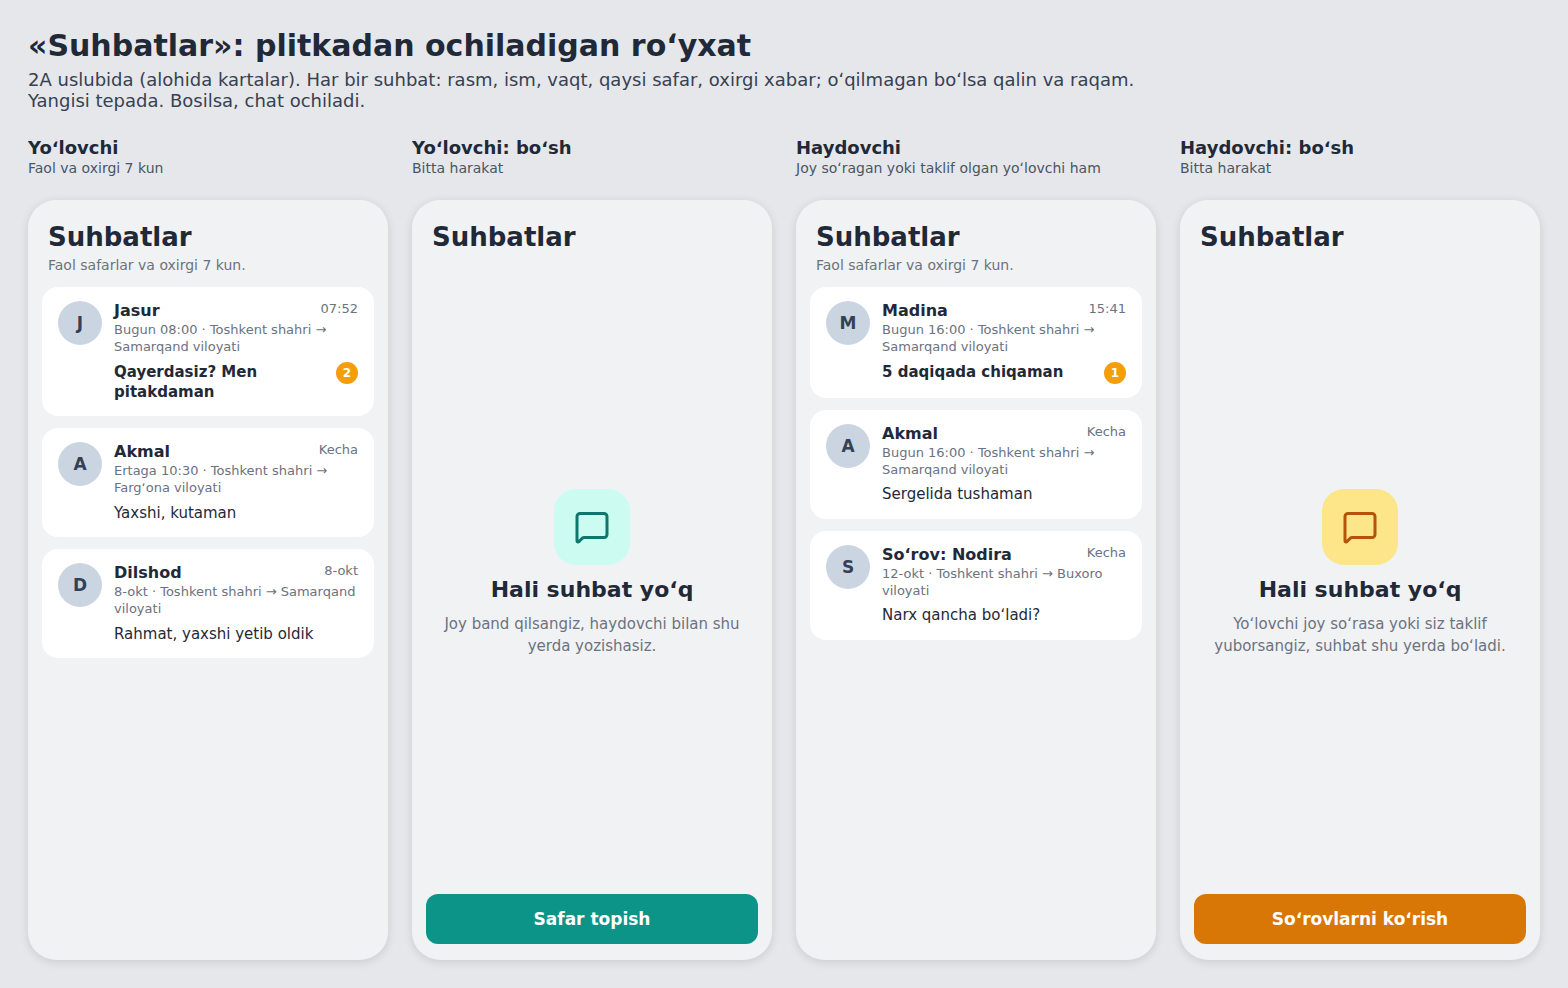
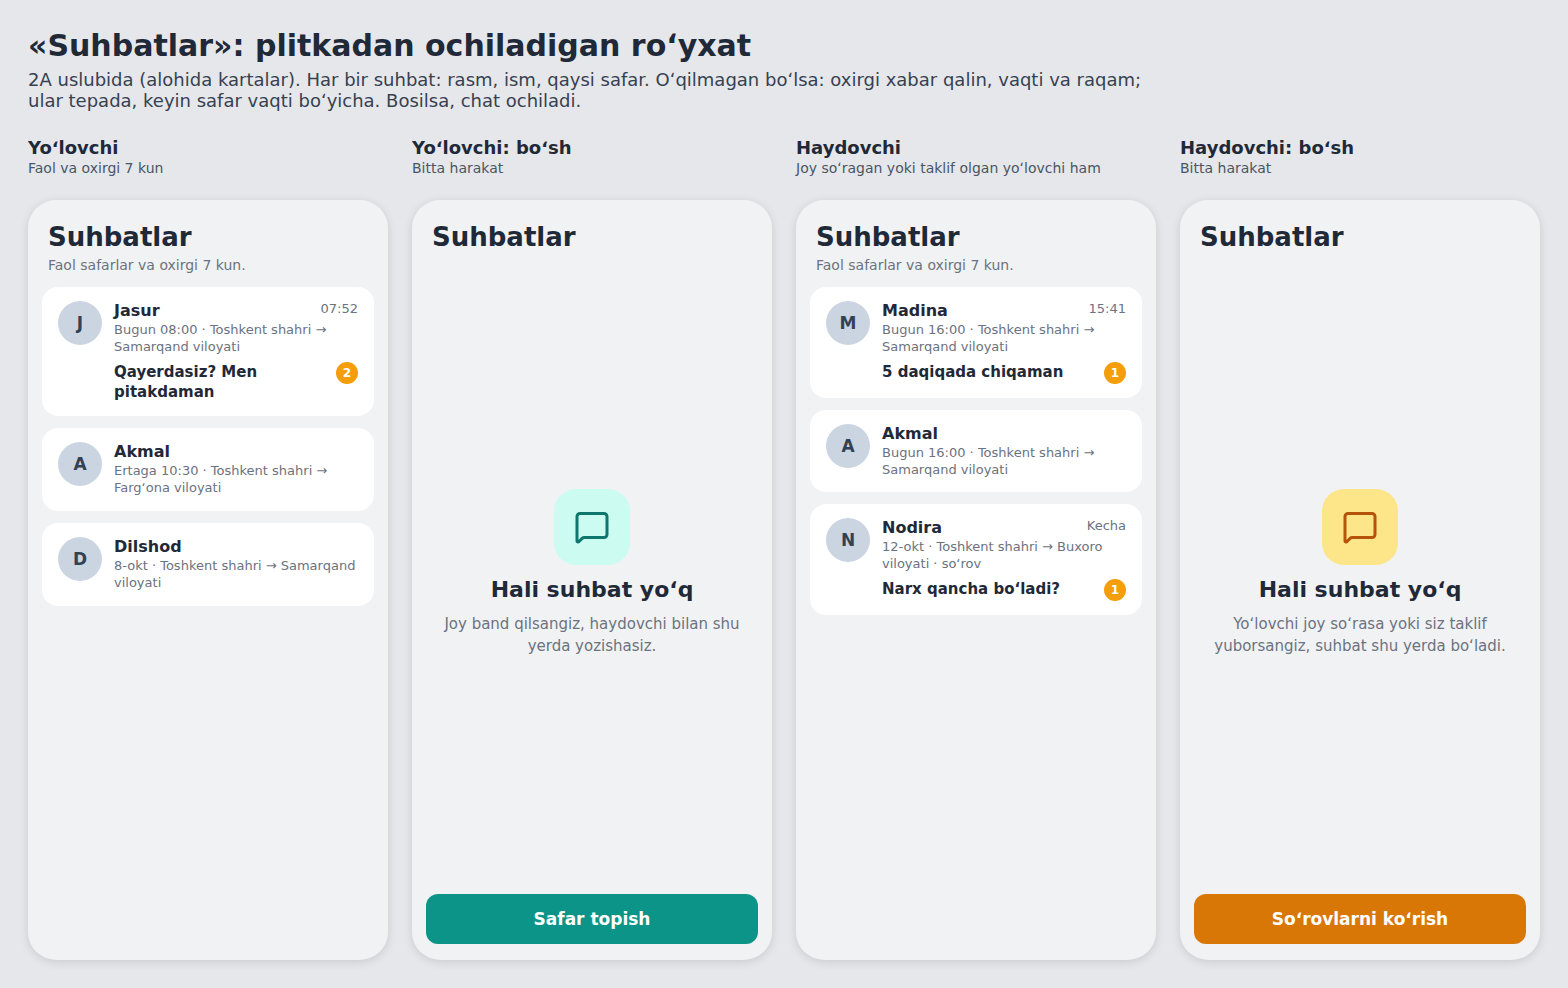
G76: the chats mockup shows the last words only of unread chats (no extra reads of every chat)
Claude-Session: https://claude.ai/code/session_017FSsNw3bjZgBbKY1ueaesh

diff --git a/docs/goals/g76/src/5-chats.html b/docs/goals/g76/src/5-chats.html
@@ -56,4 +56,4 @@ h1{font-size:30px;margin-bottom:6px}
 </style><style>.ch{display:flex;gap:12px;padding:14px 16px;align-items:flex-start}.ch .f{width:44px;height:44px;border-radius:50%;background:#CBD5E1;color:#334155;font-weight:800;display:flex;align-items:center;justify-content:center;flex:none;font-size:17px}
 .ch .w{flex:1;min-width:0}.ch .top{display:flex;justify-content:space-between;gap:8px}.ch b{font-size:16px}.ch time{font-size:13px;color:var(--muted);white-space:nowrap}
 .ch .t{font-size:13px;color:var(--muted);margin-top:2px;line-height:1.3}.ch .m{font-size:15px;margin-top:6px;display:flex;justify-content:space-between;gap:8px;line-height:1.35}
-.ch .m.new{font-weight:700}.ch .n{min-width:22px;height:22px;border-radius:11px;background:#F59E0B;color:#fff;font-size:12px;font-weight:800;display:flex;align-items:center;justify-content:center;flex:none;padding:0 6px}</style></head><body><h1>«Suhbatlar»: plitkadan ochiladigan roʻyxat</h1><div class="sub">2A uslubida (alohida kartalar). Har bir suhbat: rasm, ism, vaqt, qaysi safar, oxirgi xabar; oʻqilmagan boʻlsa qalin va raqam. Yangisi tepada. Bosilsa, chat ochiladi.</div><div class="row"><div class="col"><div class="lab">Yoʻlovchi<small>Faol va oxirgi 7 kun</small></div><div class="ph "><div class="ttl">Suhbatlar<small>Faol safarlar va oxirgi 7 kun.</small></div><div class="card"><div class="ch"><div class="f">J</div><div class="w"><div class="top"><b>Jasur</b><time>07:52</time></div><div class="t">Bugun 08:00 · Toshkent shahri → Samarqand viloyati</div><div class="m new"><span>Qayerdasiz? Men pitakdaman</span><span class="n">2</span></div></div></div></div><div class="card"><div class="ch"><div class="f">A</div><div class="w"><div class="top"><b>Akmal</b><time>Kecha</time></div><div class="t">Ertaga 10:30 · Toshkent shahri → Fargʻona viloyati</div><div class="m "><span>Yaxshi, kutaman</span></div></div></div></div><div class="card"><div class="ch"><div class="f">D</div><div class="w"><div class="top"><b>Dilshod</b><time>8-okt</time></div><div class="t">8-okt · Toshkent shahri → Samarqand viloyati</div><div class="m "><span>Rahmat, yaxshi yetib oldik</span></div></div></div></div></div></div><div class="col"><div class="lab">Yoʻlovchi: boʻsh<small>Bitta harakat</small></div><div class="ph "><div class="ttl">Suhbatlar</div><div class="center"><div class="tile big"><svg width="36" height="36" viewBox="0 0 24 24" fill="none" stroke="currentColor" stroke-width="2" stroke-linecap="round" stroke-linejoin="round"><path d="M22 17a2 2 0 0 1-2 2H6.8a2 2 0 0 0-1.4.6l-2.2 2.2A.7.7 0 0 1 2 21.3V5a2 2 0 0 1 2-2h16a2 2 0 0 1 2 2z"/></svg></div><h2>Hali suhbat yoʻq</h2><p>Joy band qilsangiz, haydovchi bilan shu yerda yozishasiz.</p></div><div class="foot"><div class="btn">Safar topish</div></div></div></div><div class="col"><div class="lab">Haydovchi<small>Joy soʻragan yoki taklif olgan yoʻlovchi ham</small></div><div class="ph drv"><div class="ttl">Suhbatlar<small>Faol safarlar va oxirgi 7 kun.</small></div><div class="card"><div class="ch"><div class="f">M</div><div class="w"><div class="top"><b>Madina</b><time>15:41</time></div><div class="t">Bugun 16:00 · Toshkent shahri → Samarqand viloyati</div><div class="m new"><span>5 daqiqada chiqaman</span><span class="n">1</span></div></div></div></div><div class="card"><div class="ch"><div class="f">A</div><div class="w"><div class="top"><b>Akmal</b><time>Kecha</time></div><div class="t">Bugun 16:00 · Toshkent shahri → Samarqand viloyati</div><div class="m "><span>Sergelida tushaman</span></div></div></div></div><div class="card"><div class="ch"><div class="f">S</div><div class="w"><div class="top"><b>Soʻrov: Nodira</b><time>Kecha</time></div><div class="t">12-okt · Toshkent shahri → Buxoro viloyati</div><div class="m "><span>Narx qancha boʻladi?</span></div></div></div></div></div></div><div class="col"><div class="lab">Haydovchi: boʻsh<small>Bitta harakat</small></div><div class="ph drv"><div class="ttl">Suhbatlar</div><div class="center"><div class="tile big"><svg width="36" height="36" viewBox="0 0 24 24" fill="none" stroke="currentColor" stroke-width="2" stroke-linecap="round" stroke-linejoin="round"><path d="M22 17a2 2 0 0 1-2 2H6.8a2 2 0 0 0-1.4.6l-2.2 2.2A.7.7 0 0 1 2 21.3V5a2 2 0 0 1 2-2h16a2 2 0 0 1 2 2z"/></svg></div><h2>Hali suhbat yoʻq</h2><p>Yoʻlovchi joy soʻrasa yoki siz taklif yuborsangiz, suhbat shu yerda boʻladi.</p></div><div class="foot"><div class="btn">Soʻrovlarni koʻrish</div></div></div></div></div></body></html>
+.ch .m.new{font-weight:700}.ch .n{min-width:22px;height:22px;border-radius:11px;background:#F59E0B;color:#fff;font-size:12px;font-weight:800;display:flex;align-items:center;justify-content:center;flex:none;padding:0 6px}</style></head><body><h1>«Suhbatlar»: plitkadan ochiladigan roʻyxat</h1><div class="sub">2A uslubida (alohida kartalar). Har bir suhbat: rasm, ism, qaysi safar. Oʻqilmagan boʻlsa: oxirgi xabar qalin, vaqti va raqam; ular tepada, keyin safar vaqti boʻyicha. Bosilsa, chat ochiladi.</div><div class="row"><div class="col"><div class="lab">Yoʻlovchi<small>Faol va oxirgi 7 kun</small></div><div class="ph "><div class="ttl">Suhbatlar<small>Faol safarlar va oxirgi 7 kun.</small></div><div class="card"><div class="ch"><div class="f">J</div><div class="w"><div class="top"><b>Jasur</b><time>07:52</time></div><div class="t">Bugun 08:00 · Toshkent shahri → Samarqand viloyati</div><div class="m new"><span>Qayerdasiz? Men pitakdaman</span><span class="n">2</span></div></div></div></div><div class="card"><div class="ch"><div class="f">A</div><div class="w"><div class="top"><b>Akmal</b><time></time></div><div class="t">Ertaga 10:30 · Toshkent shahri → Fargʻona viloyati</div></div></div></div><div class="card"><div class="ch"><div class="f">D</div><div class="w"><div class="top"><b>Dilshod</b><time></time></div><div class="t">8-okt · Toshkent shahri → Samarqand viloyati</div></div></div></div></div></div><div class="col"><div class="lab">Yoʻlovchi: boʻsh<small>Bitta harakat</small></div><div class="ph "><div class="ttl">Suhbatlar</div><div class="center"><div class="tile big"><svg width="36" height="36" viewBox="0 0 24 24" fill="none" stroke="currentColor" stroke-width="2" stroke-linecap="round" stroke-linejoin="round"><path d="M22 17a2 2 0 0 1-2 2H6.8a2 2 0 0 0-1.4.6l-2.2 2.2A.7.7 0 0 1 2 21.3V5a2 2 0 0 1 2-2h16a2 2 0 0 1 2 2z"/></svg></div><h2>Hali suhbat yoʻq</h2><p>Joy band qilsangiz, haydovchi bilan shu yerda yozishasiz.</p></div><div class="foot"><div class="btn">Safar topish</div></div></div></div><div class="col"><div class="lab">Haydovchi<small>Joy soʻragan yoki taklif olgan yoʻlovchi ham</small></div><div class="ph drv"><div class="ttl">Suhbatlar<small>Faol safarlar va oxirgi 7 kun.</small></div><div class="card"><div class="ch"><div class="f">M</div><div class="w"><div class="top"><b>Madina</b><time>15:41</time></div><div class="t">Bugun 16:00 · Toshkent shahri → Samarqand viloyati</div><div class="m new"><span>5 daqiqada chiqaman</span><span class="n">1</span></div></div></div></div><div class="card"><div class="ch"><div class="f">A</div><div class="w"><div class="top"><b>Akmal</b><time></time></div><div class="t">Bugun 16:00 · Toshkent shahri → Samarqand viloyati</div></div></div></div><div class="card"><div class="ch"><div class="f">N</div><div class="w"><div class="top"><b>Nodira</b><time>Kecha</time></div><div class="t">12-okt · Toshkent shahri → Buxoro viloyati · soʻrov</div><div class="m new"><span>Narx qancha boʻladi?</span><span class="n">1</span></div></div></div></div></div></div><div class="col"><div class="lab">Haydovchi: boʻsh<small>Bitta harakat</small></div><div class="ph drv"><div class="ttl">Suhbatlar</div><div class="center"><div class="tile big"><svg width="36" height="36" viewBox="0 0 24 24" fill="none" stroke="currentColor" stroke-width="2" stroke-linecap="round" stroke-linejoin="round"><path d="M22 17a2 2 0 0 1-2 2H6.8a2 2 0 0 0-1.4.6l-2.2 2.2A.7.7 0 0 1 2 21.3V5a2 2 0 0 1 2-2h16a2 2 0 0 1 2 2z"/></svg></div><h2>Hali suhbat yoʻq</h2><p>Yoʻlovchi joy soʻrasa yoki siz taklif yuborsangiz, suhbat shu yerda boʻladi.</p></div><div class="foot"><div class="btn">Soʻrovlarni koʻrish</div></div></div></div></div></body></html>
